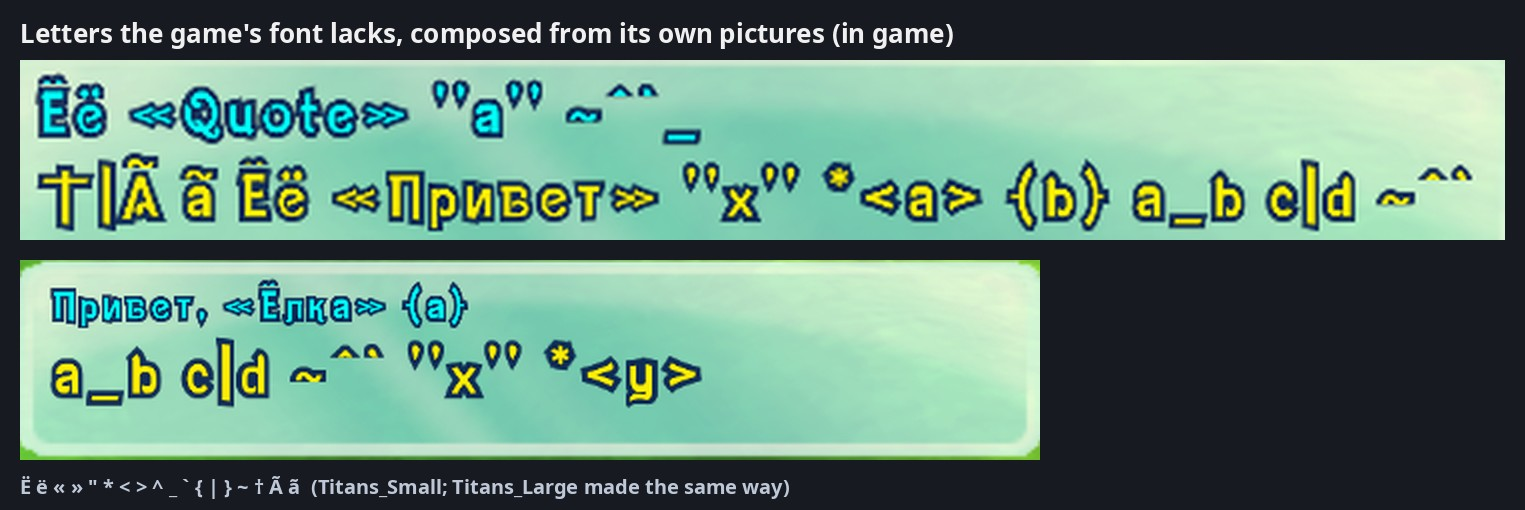
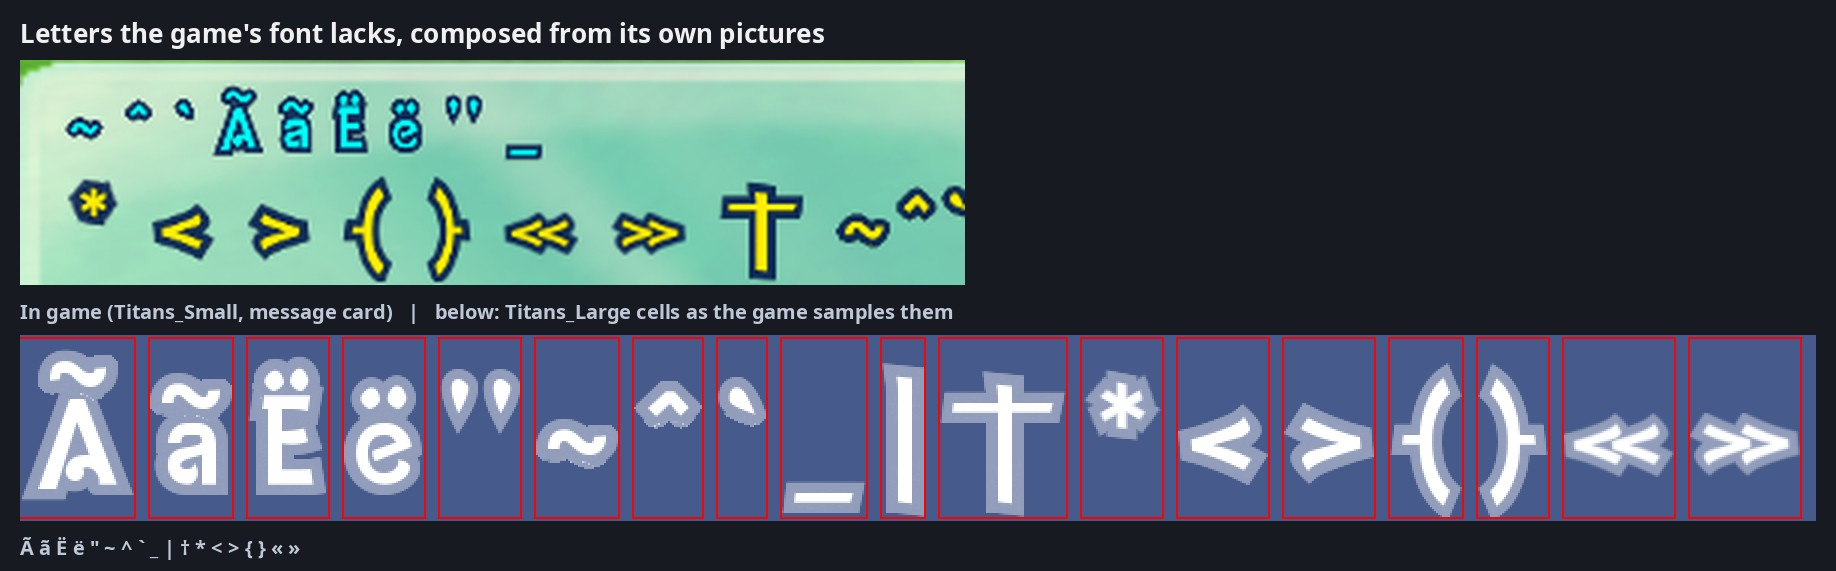
Font letters: accents found by their fill, no longer cut off
In the Titans fonts an accent's outline merges with its letter's, so
cutting above the plain letter's first inked row sliced the accents:
Ё ё lost half their dots, ~ ^ ` and the tilde of Ã ã lost their lower
part and outline. The accent is now the letter's fill pieces lying
above the plain letter's fill, plus everything within one outline width
of them (outline width and colour measured on 'H'). Checked: every made
glyph whole in both fonts, none touching the top of its cell.
findings/49 s.8.5, screenshot refreshed.

diff --git a/src/ui/font_letters.cpp b/src/ui/font_letters.cpp
@@ -308,6 +308,8 @@ struct Font {
   int cap_top = 0;   // the first fill row of 'H'
   int dash_mid = 0;  // the middle row of '-' (its ink with the outline)
   int bearing = 1;   // the gap left and right of a made letter
+  int outline = 3;   // the baked outline's width (fill edge to ink edge, 'H')
+  uint32_t outline_colour = 0;  // an outline pixel of 'H' (BGRA)
 };
 
 struct Made {
@@ -318,18 +320,81 @@ struct Made {
   int widen = 0;
 };
 
-// Rows of `with`'s cell above where `plain`'s ink starts (less one row): the
-// accent of õ / â / à / ë. `y` = where its ink begins in the cell.
-std::optional<Img> Accent(const Font& f, char16_t with, char16_t plain, int* y) {
+// The ACCENT of õ / â / à / Ë..., alone, as a cell-sized picture (the rest
+// transparent). In this font an accent's outline MERGES with its letter's
+// (no empty row between: Ë's dots go down to row 25 of the Large cell, E's
+// ink starts at row 22), so cutting at a row sliced accents (the first
+// version: Ё's dots halved, the tilde's bottom gone). Instead the accent is
+// found by its FILL: the letter's fill pieces (alpha >= kFillAlpha, joined
+// sideways and up/down) whose middle row is above where `plain`'s fill
+// begins. Kept: every pixel within one outline width (+1 for the soft edge)
+// of those pieces, the source's own colours; a pixel of the LETTER's fill in
+// that reach becomes outline (the letter is gone from under it).
+std::optional<Img> AccentPiece(const Font& f, char16_t with, char16_t plain) {
   const auto a = f.cell(with), p = f.cell(plain);
   if (!a || !p) return std::nullopt;
-  const Box pb = InkBox(*p);
-  if (pb.empty()) return std::nullopt;
-  const Img top = Crop(*a, Box{0, 0, a->w, pb.y0 - 1});
-  const Box b = InkBox(top);
+  const Box pf = InkBox(*p, kFillAlpha);
+  if (pf.empty()) return std::nullopt;
+  const int w = a->w, h = a->h;
+  std::vector<int> label(size_t(w) * size_t(h), -1);
+  std::vector<bool> accent_label;
+  std::vector<std::pair<int, int>> stack, accent_fill;
+  for (int y0 = 0; y0 < h; ++y0)
+    for (int x0 = 0; x0 < w; ++x0) {
+      if (a->alpha(x0, y0) < kFillAlpha || label[size_t(y0 * w + x0)] >= 0) continue;
+      const int id = int(accent_label.size());
+      std::vector<std::pair<int, int>> piece;
+      stack.assign(1, {x0, y0});
+      label[size_t(y0 * w + x0)] = id;
+      while (!stack.empty()) {
+        const auto [x, y] = stack.back();
+        stack.pop_back();
+        piece.push_back({x, y});
+        const int nx[4] = {x - 1, x + 1, x, x}, ny[4] = {y, y, y - 1, y + 1};
+        for (int k = 0; k < 4; ++k) {
+          if (nx[k] < 0 || ny[k] < 0 || nx[k] >= w || ny[k] >= h) continue;
+          int& l = label[size_t(ny[k] * w + nx[k])];
+          if (l >= 0 || a->alpha(nx[k], ny[k]) < kFillAlpha) continue;
+          l = id;
+          stack.push_back({nx[k], ny[k]});
+        }
+      }
+      long sum_y = 0;
+      for (const auto& [x, y] : piece) sum_y += y;
+      const bool is_accent = sum_y < long(pf.y0) * long(piece.size());  // middle row above the letter
+      accent_label.push_back(is_accent);
+      if (is_accent) accent_fill.insert(accent_fill.end(), piece.begin(), piece.end());
+    }
+  if (accent_fill.empty()) return std::nullopt;
+  const float reach = float(f.outline) + 1.0f;
+  Img out(w, h);
+  for (int y = 0; y < h; ++y)
+    for (int x = 0; x < w; ++x) {
+      if (!a->alpha(x, y)) continue;
+      const int l = label[size_t(y * w + x)];
+      if (l >= 0 && accent_label[size_t(l)]) {
+        out.at(x, y) = a->at(x, y);
+        continue;
+      }
+      float best = 1e9f;
+      for (const auto& [fx, fy] : accent_fill) {
+        const float dx = float(fx - x), dy = float(fy - y);
+        best = std::min(best, dx * dx + dy * dy);
+      }
+      if (best > reach * reach) continue;
+      out.at(x, y) = l >= 0 ? f.outline_colour : a->at(x, y);  // letter fill -> outline
+    }
+  return out;
+}
+
+// The accent cropped to its ink; `y` = where its ink begins in the cell.
+std::optional<Img> Accent(const Font& f, char16_t with, char16_t plain, int* y) {
+  const auto piece = AccentPiece(f, with, plain);
+  if (!piece) return std::nullopt;
+  const Box b = InkBox(*piece);
   if (b.empty()) return std::nullopt;
   *y = b.y0;
-  return Crop(top, b);
+  return Crop(*piece, b);
 }
 
 Img Canvas(const Font& f, int w) { return Img(w, f.height); }
@@ -338,14 +403,12 @@ Img Canvas(const Font& f, int w) { return Img(w, f.height); }
 // in the wider of the two (the way Ã / ã were made first, 2026-10-31).
 std::optional<Made> AccentOver(const Font& f, char16_t base, char16_t with, char16_t plain,
                                const std::vector<uint8_t>& base_record) {
-  const auto b = f.cell(base), a = f.cell(with), p = f.cell(plain);
-  if (!b || !a || !p) return std::nullopt;
-  const Box pb = InkBox(*p);
-  if (pb.empty()) return std::nullopt;
+  const auto b = f.cell(base), a = AccentPiece(f, with, plain);
+  if (!b || !a) return std::nullopt;
   const int w = std::max(b->w, a->w);
   Made m{Canvas(f, w), base_record, w - b->w};
   Put(m.img, *b, (w - b->w) / 2, 0);
-  Put(m.img, Crop(*a, Box{0, 0, a->w, pb.y0 - 1}), (w - a->w) / 2, 0);
+  Put(m.img, *a, (w - a->w) / 2, 0);
   return m;
 }
 
@@ -556,6 +619,17 @@ bool PatchFont(pure3d::Node& font) {
   const Box db = InkBox(*dash);
   f.dash_mid = (db.y0 + db.y1) / 2;
   f.bearing = std::max(1, f.height / 40);
+  {  // the outline's width and colour: 'H''s middle row, from its ink edge to its fill
+    const int y = (f.cap_top + f.baseline) / 2;
+    int ink = -1, fill = -1;
+    for (int x = 0; x < h->w && fill < 0; ++x) {
+      if (ink < 0 && h->alpha(x, y)) ink = x;
+      if (h->alpha(x, y) >= kFillAlpha) fill = x;
+    }
+    if (ink < 0 || fill <= ink) return false;
+    f.outline = fill - ink;
+    f.outline_colour = h->at(ink + f.outline / 2, y);
+  }
 
   // Every letter first (cells are read from the pages as the disc has them),
   // then placed.

diff --git a/docs/findings/49-languages.md b/docs/findings/49-languages.md
@@ -278,8 +278,9 @@ the data patcher.
 Titans_Large / Titans_Small list Ã and ã but with EMPTY records (zero width,
 no picture): "não" drew "n o". `ui/font_letters.cpp` (a data patch of
 b4c85fe7, after the menu button glyphs) composes each from the font's own
-pictures: the "a" / "A" cell plus the tilde rows of "õ" / "Õ" (the rows above
-a plain "o"'s first inked row), centred, the cell widened to the wider of the
+pictures: the "a" / "A" cell plus the tilde of "õ" / "Õ" (found by its fill
+since s.8.5: the first cut "above a plain o's first inked row" lost the
+tilde's bottom), centred, the cell widened to the wider of the
 two (left bearing moved by half). It goes into free space of a text page;
 the first version put what didn't fit on ONE new page (a cleared copy of a
 text page). Since s.8.5 a page is GROWN instead (no font gets a new page).
@@ -306,7 +307,7 @@ the fonts' own pictures (outline, colours and baseline come along):
 
 | Characters | Made from |
 |---|---|
-| Ã ã Ё ё | A a Е е + the top rows of Õ õ / Ë ë (tilde, dots) |
+| Ã ã Ё ё | A a Е е + the accent of Õ õ / Ë ë (tilde, dots) |
 | `"` | two apostrophes, 2 px apart |
 | `~` `^` `` ` `` | the tilde of õ (moved to the dash's height), the hat of â, the accent of à |
 | `_` | the dash, widened to an "n" (+4 px), at the baseline |
@@ -325,6 +326,21 @@ U+00BB = the menus' red arrow). They live at U+E140 / U+E141, and
 `font_letters::ForFont` swaps them in where the port loads texts: every .po
 translation (texts.cpp, a » the English also has stays the arrow) and the
 subtitles.
+
+ACCENTS ARE FOUND BY THEIR FILL, not cut at a row. In these fonts an
+accent's outline merges with its letter's (no empty row between them): Ë's
+dots reach row 25 of the Large cell while E's ink starts at row 22, õ's tilde
+fill ends 1-2 rows below o's first ink. The first version cut "above the
+plain letter's first inked row" (as 8.3 did for Ã ã) and sliced accents:
+Ё's dots halved, ~ ^ ` and the tilde of Ã ã lost their lower part and
+outline. Now the letter's fill pieces (alpha >= 200, 4-connected) whose
+middle row lies above the plain letter's first FILL row are the accent; the
+pixels within one outline width (+1, the soft edge) of them are kept with
+their own colours, and the letter's fill inside that reach turns into
+outline colour. The outline width and colour are measured on 'H' (3 px
+Small, 5 px Large). Check: no made glyph's ink touches the top of its cell
+(the game's own cells are cut tight left / right, and descenders touch the
+bottom, as ours do).
 
 Stretching keeps a piece's two ends (their rounded outline) and repeats its
 middle column or row. Turns by a quarter are exact; the asterisk's 30 / 150
